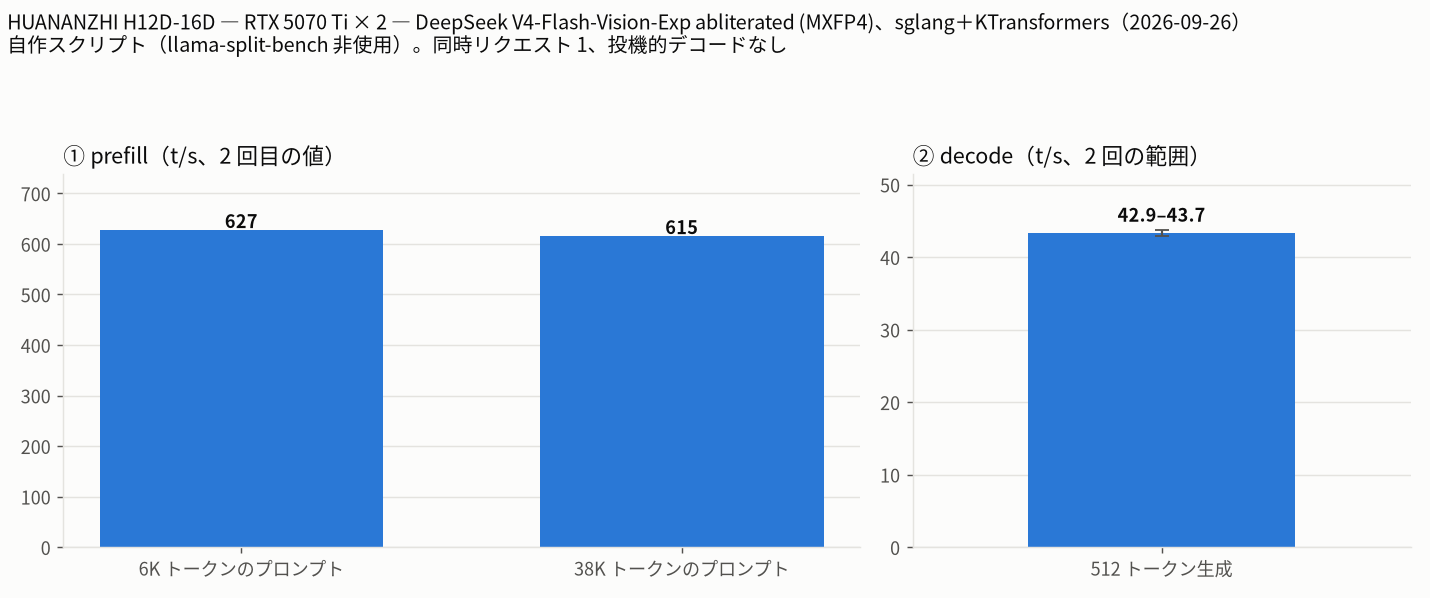
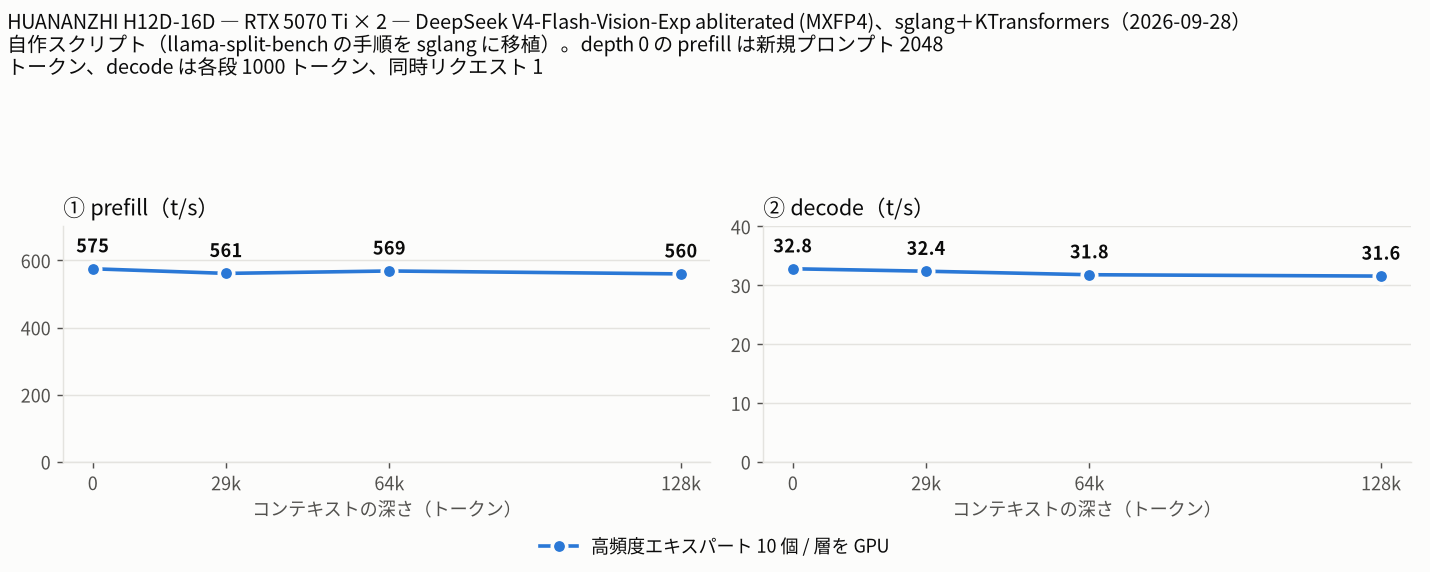
report: add the depth ladder (0/32K/64K/128K) as the main result
Maintainer request on #16: the llama-split-bench depth ladder, measured with the same
protocol ported to sglang (tools/sglang-ladder.py). The 09-26 real-prompt results stay
as a reference block.

diff --git a/report/2026-09-26_093346_running_deepseek_v4_flash_vision_exp_abliterated_mxfp4_on_2x_epyc_7452_and_2x_rtx_5070_ti_with_sglang_and_ktransformers.md b/report/2026-09-26_093346_running_deepseek_v4_flash_vision_exp_abliterated_mxfp4_on_2x_epyc_7452_and_2x_rtx_5070_ti_with_sglang_and_ktransformers.md
@@ -36,17 +36,40 @@ llama.cpp ではなく sglang＋KTransformers で動かしているため、llam
 
 | 項目 | 内容 |
 |------|------|
-| ツール | 自作スクリプト（sglang の OpenAI 互換 API にリクエストを送り、経過時間と usage から t/s を計算）。llama-split-bench は llama.cpp 専用のため使っていません |
+| ツール | 自作スクリプト [`tools/sglang-ladder.py`](https://github.com/05yuki/KTransformers/blob/main/tools/sglang-ladder.py)（llama-split-bench 7af72d4 の `measure_ladder.py` / `measure_pp0.py` と同じ手順を、sglang の `/generate` に移植したもの）。llama-split-bench は llama.cpp 専用のため使っていません |
 | モデル | DeepSeek V4-Flash-Vision-Exp の abliterated 版。[huihui-ai/Huihui-DeepSeek-V4-Flash-Vision-Exp-abliterated-GGUF](https://huggingface.co/huihui-ai/Huihui-DeepSeek-V4-Flash-Vision-Exp-abliterated-GGUF) を sglang で読める形式に自前で変換。エキスパートは GGUF の MXFP4 をそのまま使用、エキスパート以外の重みは FP8。147 GB。43 層、ルーティングされるエキスパート 256 個中 6 個がアクティブ |
 | 測定モード | CPU/GPU 分担（TP=2）。GPU に置くもの: エキスパート以外のすべてと、各層で使用頻度の高いエキスパート 10 個。prefill: 一定以上の長さでは、エキスパートを層ごとに GPU へ転送して計算。同時に CPU がエキスパート 3 グループ分を並行して計算 |
-| ctx / stages | 1M（KV キャッシュの確保は 262K トークン） / 深度ラダーなし（約 6K・約 38K トークンのプロンプトの prefill と、短いプロンプトからの 512 トークン生成） |
+| ctx / stages | 1M（KV キャッシュの確保は 262K トークン） / 0,32000,64000,128000 |
 | KV キャッシュ | FP8（e4m3） |
 | 投機的デコード | なし |
-| その他 | prefill は実際に使っている日本語の執筆指示（約 38K トークン）とその先頭 11,000 文字（約 6K トークン）を max_tokens 1 で送信し、2 回目の値（1 回目は起動直後のウォームアップを含む）。プロンプトの先頭に毎回異なる文字列を付けてプレフィックスキャッシュを無効化。decode は `ignore_eos`・思考なしで 2 回。temperature 1.0 / top_p 0.95、同時リクエスト 1。測定日 2026-09-26 |
+| その他 | ラダーは llama-split-bench と同じ英語の合成テキストを使い、各段で前の段の文脈の続きを送ります（前の段までの KV はプレフィックスキャッシュで再利用し、増えた分だけを prefill）。各段の直後に greedy・`ignore_eos` で 1000 トークン生成。depth 0 の prefill は新規プロンプト（512 / 2048 / 8192 トークン、先頭に毎回異なる文字列を付けてキャッシュを無効化）で、表と図の depth 0 は 2048 トークンの値です。同時リクエスト 1、測定日 2026-09-28〜29。参考の実プロンプトの計測: prefill は実際に使っている日本語の執筆指示（約 38K トークン）とその先頭 11,000 文字（約 6K トークン）を max_tokens 1 で送信し、2 回目の値（1 回目は起動直後のウォームアップを含む）。プロンプトの先頭に毎回異なる文字列を付けてプレフィックスキャッシュを無効化。decode は `ignore_eos`・思考なしで 2 回。temperature 1.0 / top_p 0.95、同時リクエスト 1。測定日 2026-09-26 |
 
 ### 結果
 
 ![結果](attachment/2026-09-26_093346_running_deepseek_v4_flash_vision_exp_abliterated_mxfp4_on_2x_epyc_7452_and_2x_rtx_5070_ti_with_sglang_and_ktransformers/split-bench-ja.png)
+
+depth ごとの prefill / decode（t/s）。depth 0 の prefill は新規プロンプト（2048 トークン）の値です。decode はラダーの合成テキストでの実測値です。
+
+| depth | 実際の深さ（トークン） | prefill | decode |
+|------:|------:|------:|------:|
+| 0 | 0 | 575 | 32.8 |
+| 29k | 29,183 | 561 | 32.4 |
+| 64k | 64,926 | 569 | 31.8 |
+| 128k | 128,761 | 560 | 31.6 |
+
+depth 0 の新規プロンプト prefill（t/s）:
+
+| プロンプト長（トークン） | prefill |
+|------:|------:|
+| 491 | 130 |
+| 1,886 | 575 |
+| 7,403 | 568 |
+
+- 時間は sglang のサーバ側の記録（prefill の開始・終了時刻、decode のスループット）から計算しています
+
+ラダーの decode（英語の合成テキスト、greedy）は、下の実プロンプト（日本語、temperature 1.0）の値より低めです。GPU に置いた高頻度エキスパートは日本語の執筆でのルーティングから選んでいるため、合成テキストでは GPU 側で計算される割合が下がることが主な理由だと考えていますが、確認はしていません。
+
+#### 参考: 実際の執筆指示での計測（2026-09-26）
 
 プロンプト長ごとの prefill（t/s）。括弧内は所要時間です。
 
@@ -65,6 +88,7 @@ decode（t/s、2 回の範囲）:
 
 ### 所感
 
+- 深度ラダーでは、最も深い段（129k）まで decode は 31.6〜32.8 t/s、prefill は 560〜569 t/s で、深さによる低下はほとんどありませんでした。
 - prefill は PCIe の帯域で頭打ちです。これ以上速くするには、転送するエキスパートのバイト数を減らすか、CPU の分担を増やす必要があり、CPU 側のカーネルの高速化を続けています。
 - VRAM 16 GB × 2 枚では 147 GB のモデルの 1 割も GPU に載りませんが、decode は GPU に置いたエキスパートと CPU のメモリ帯域で 40 t/s 台に届きました。
 - GPU 間 P2P のない 2 枚では、NCCL の SHM 経路が decode の all-reduce で重く、ホストメモリ経由の all-reduce に替えるだけで decode が 4〜6% 伸びました。
@@ -89,4 +113,6 @@ decode（t/s、2 回の範囲）:
 ## 添付
 
 - [split-bench-en.png](attachment/2026-09-26_093346_running_deepseek_v4_flash_vision_exp_abliterated_mxfp4_on_2x_epyc_7452_and_2x_rtx_5070_ti_with_sglang_and_ktransformers/split-bench-en.png)
-- [results.json](attachment/2026-09-26_093346_running_deepseek_v4_flash_vision_exp_abliterated_mxfp4_on_2x_epyc_7452_and_2x_rtx_5070_ti_with_sglang_and_ktransformers/results.json)
+- [results-ladder.json](attachment/2026-09-26_093346_running_deepseek_v4_flash_vision_exp_abliterated_mxfp4_on_2x_epyc_7452_and_2x_rtx_5070_ti_with_sglang_and_ktransformers/results-ladder.json) / [results-ladder-pp0.json](attachment/2026-09-26_093346_running_deepseek_v4_flash_vision_exp_abliterated_mxfp4_on_2x_epyc_7452_and_2x_rtx_5070_ti_with_sglang_and_ktransformers/results-ladder-pp0.json)
+- [run-info.json](attachment/2026-09-26_093346_running_deepseek_v4_flash_vision_exp_abliterated_mxfp4_on_2x_epyc_7452_and_2x_rtx_5070_ti_with_sglang_and_ktransformers/run-info.json)
+- [results.json](attachment/2026-09-26_093346_running_deepseek_v4_flash_vision_exp_abliterated_mxfp4_on_2x_epyc_7452_and_2x_rtx_5070_ti_with_sglang_and_ktransformers/results.json)（参考の実プロンプトの計測）
